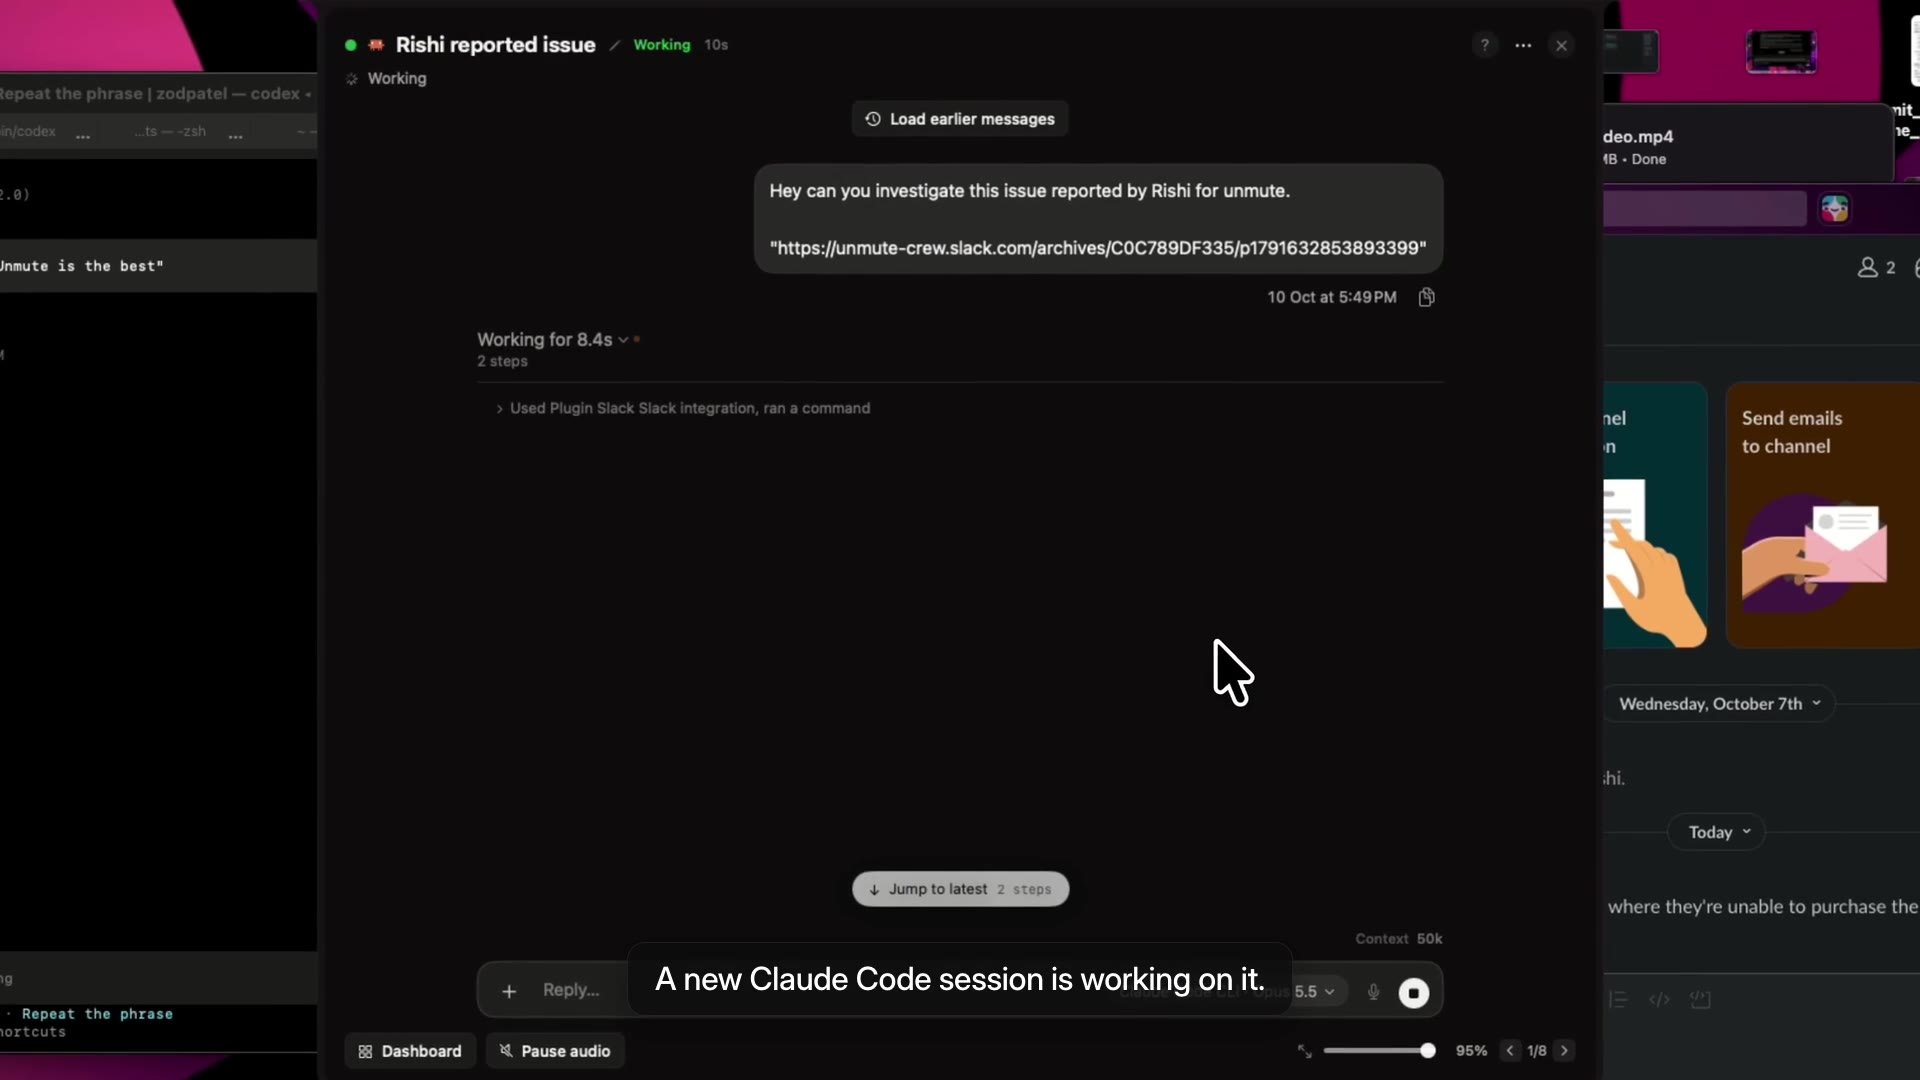
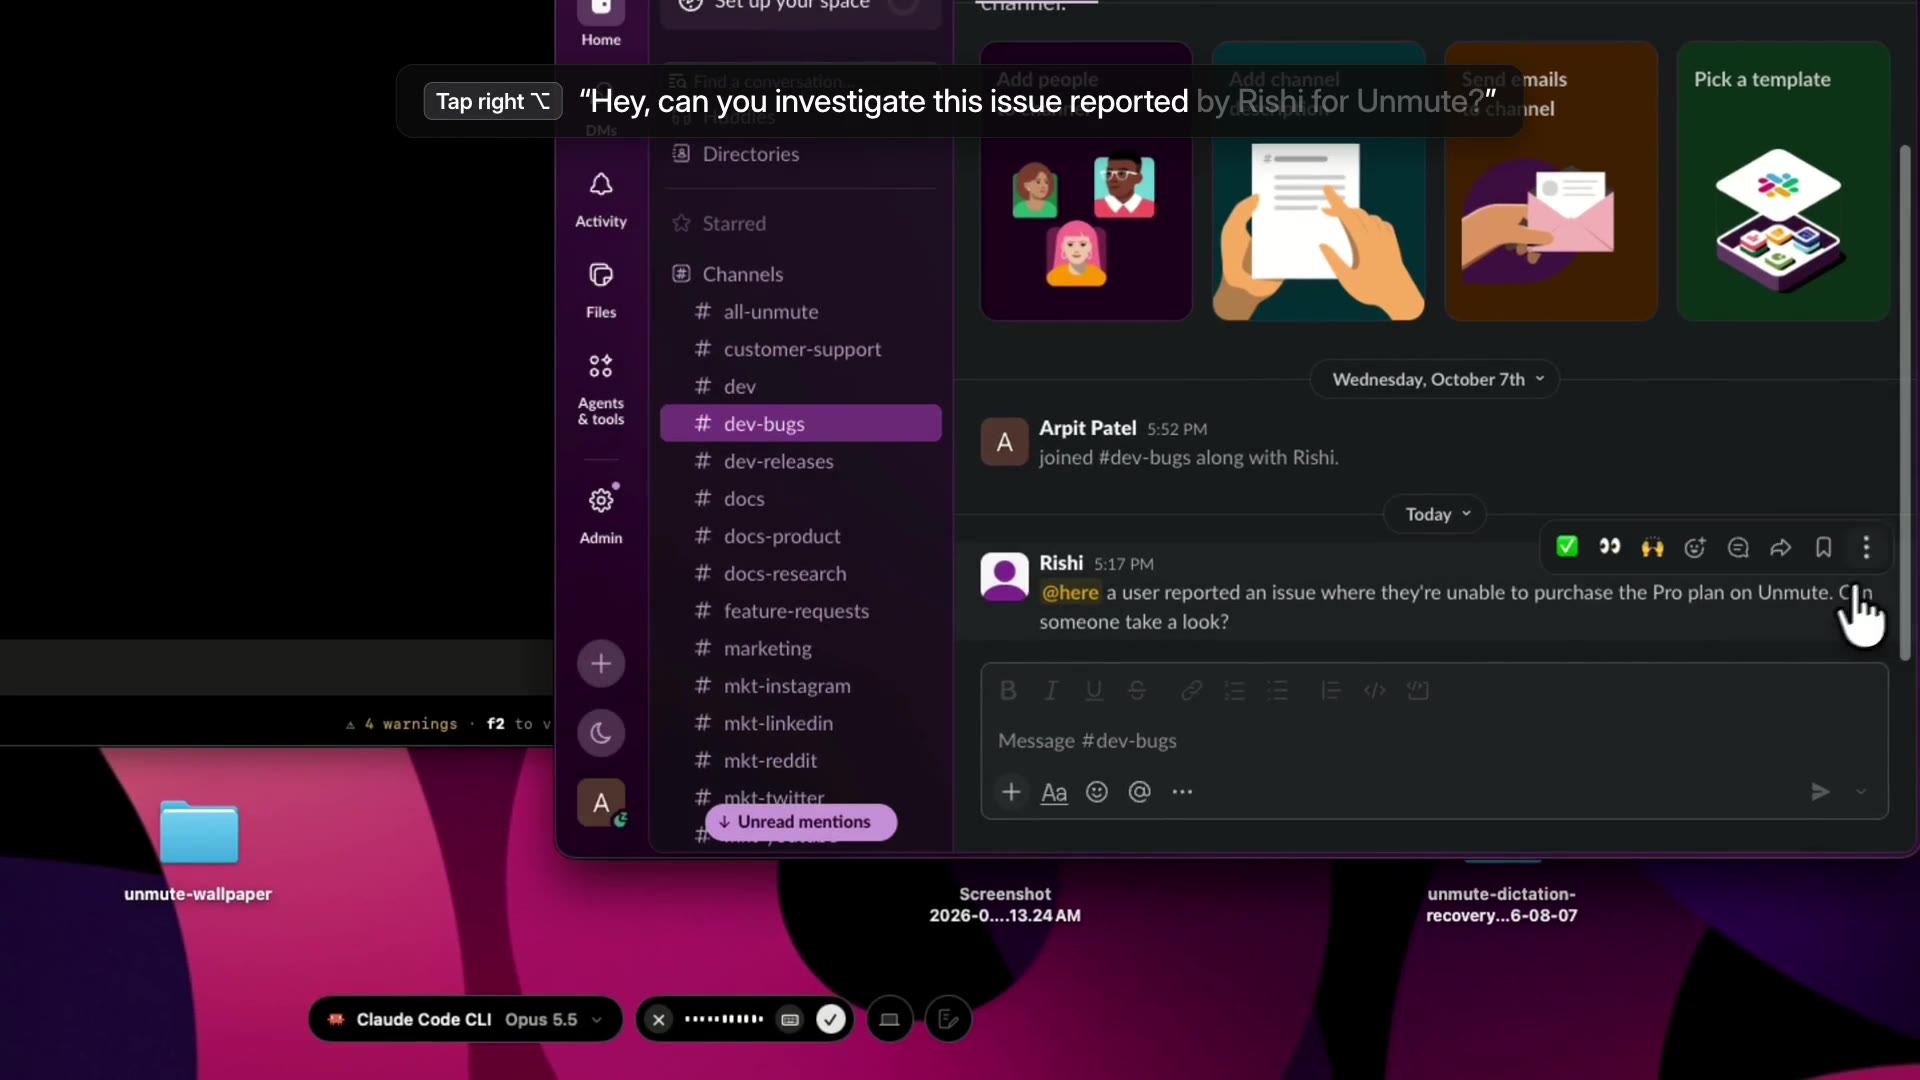
Landing: make the demos play on phones
Serve MP4 (H.264) only: iPhones could pick the WebM source and show black.
Replace the CSS mask on the video frame (Safari can draw masked video black)
with an overlay fade, add a tap-to-play button when autoplay is refused
(Low Power Mode, data saver), and refresh the hero poster.

diff --git a/index.html b/index.html
@@ -19,7 +19,7 @@
 <link rel="preload" href="assets/fonts/Inter.woff2" as="font" type="font/woff2" crossorigin />
 <link rel="preload" href="assets/fonts/Lora.woff2" as="font" type="font/woff2" crossorigin />
 <link rel="stylesheet" href="clear.css?v=20261011-3" />
-<link rel="stylesheet" href="draft.css?v=16" />
+<link rel="stylesheet" href="draft.css?v=17" />
 </head>
 <body>
 
@@ -45,9 +45,9 @@
 
   <figure class="film hero-film">
     <div class="frame">
-      <video data-cues="hero2" autoplay muted loop playsinline preload="auto" poster="assets/video/hero-poster.jpg?v=full2">
-        <source src="assets/video/hero.webm?v=full2" type="video/webm" />
-        <source src="assets/video/hero.mp4?v=full2" type="video/mp4" />
+      <video data-cues="hero2" autoplay muted loop playsinline preload="auto" poster="assets/video/hero-poster.jpg?v=m1">
+        
+        <source src="assets/video/hero.mp4?v=m1" type="video/mp4" />
       </video>
       <button type="button" class="sound" aria-pressed="false"><span class="on-off">Sound on</span></button>
     </div><div class="listen"><button type="button" class="listen-btn" aria-pressed="false"><span class="ico"></span><span class="lbl">Play with sound</span></button><span class="hint">Hear it narrated</span></div>
@@ -60,15 +60,15 @@
   <ol class="steps">
     <li class="step">
       <div class="text"><span class="n">1</span><h3>Say what you want done.</h3><p>Tap <kbd>right ⌥</kbd> and speak. Your words start a new Claude Code or Codex session, or go to one that’s already running.</p></div>
-      <figure class="film"><div class="frame"><video autoplay muted loop playsinline preload="none" poster="assets/video/step-say-poster.jpg?v=full2"><source src="assets/video/step-say.webm?v=full2" type="video/webm" /><source src="assets/video/step-say.mp4?v=full2" type="video/mp4" /></video><button type="button" class="sound" aria-pressed="false"><span class="on-off">Sound on</span></button></div><div class="listen"><button type="button" class="listen-btn" aria-pressed="false"><span class="ico"></span><span class="lbl">Play with sound</span></button><span class="hint">Hear it narrated</span></div></figure>
+      <figure class="film"><div class="frame"><video autoplay muted loop playsinline preload="none" poster="assets/video/step-say-poster.jpg?v=m1"><source src="assets/video/step-say.mp4?v=m1" type="video/mp4" /></video><button type="button" class="sound" aria-pressed="false"><span class="on-off">Sound on</span></button></div><div class="listen"><button type="button" class="listen-btn" aria-pressed="false"><span class="ico"></span><span class="lbl">Play with sound</span></button><span class="hint">Hear it narrated</span></div></figure>
     </li>
     <li class="step">
       <div class="text"><span class="n">2</span><h3>Keep working.</h3><p>The session runs in Claude Code or Codex. A small status at the top of your screen shows it’s working.</p></div>
-      <figure class="film"><div class="frame"><video autoplay muted loop playsinline preload="none" poster="assets/video/step-works-poster.jpg?v=full2"><source src="assets/video/step-works.webm?v=full2" type="video/webm" /><source src="assets/video/step-works.mp4?v=full2" type="video/mp4" /></video><button type="button" class="sound" aria-pressed="false"><span class="on-off">Sound on</span></button></div><div class="listen"><button type="button" class="listen-btn" aria-pressed="false"><span class="ico"></span><span class="lbl">Play with sound</span></button><span class="hint">Hear it narrated</span></div></figure>
+      <figure class="film"><div class="frame"><video autoplay muted loop playsinline preload="none" poster="assets/video/step-works-poster.jpg?v=m1"><source src="assets/video/step-works.mp4?v=m1" type="video/mp4" /></video><button type="button" class="sound" aria-pressed="false"><span class="on-off">Sound on</span></button></div><div class="listen"><button type="button" class="listen-btn" aria-pressed="false"><span class="ico"></span><span class="lbl">Play with sound</span></button><span class="hint">Hear it narrated</span></div></figure>
     </li>
     <li class="step">
       <div class="text"><span class="n">3</span><h3>Answer when it asks.</h3><p>When the session finishes or needs a decision, its chat opens at the top of your screen. Read it and reply by voice, without going anywhere.</p></div>
-      <figure class="film"><div class="frame"><video autoplay muted loop playsinline preload="none" poster="assets/video/step-answer-poster.jpg?v=full2"><source src="assets/video/step-answer.webm?v=full2" type="video/webm" /><source src="assets/video/step-answer.mp4?v=full2" type="video/mp4" /></video><button type="button" class="sound" aria-pressed="false"><span class="on-off">Sound on</span></button></div><div class="listen"><button type="button" class="listen-btn" aria-pressed="false"><span class="ico"></span><span class="lbl">Play with sound</span></button><span class="hint">Hear it narrated</span></div></figure>
+      <figure class="film"><div class="frame"><video autoplay muted loop playsinline preload="none" poster="assets/video/step-answer-poster.jpg?v=m1"><source src="assets/video/step-answer.mp4?v=m1" type="video/mp4" /></video><button type="button" class="sound" aria-pressed="false"><span class="on-off">Sound on</span></button></div><div class="listen"><button type="button" class="listen-btn" aria-pressed="false"><span class="ico"></span><span class="lbl">Play with sound</span></button><span class="hint">Hear it narrated</span></div></figure>
     </li>
   </ol>
 </section>
@@ -79,7 +79,7 @@
     <h2>Not just for code.</h2>
     <p>Anything you’d ask Claude Code or Codex: research a competitor, plan a launch, follow up on a thread.</p>
   </div>
-  <figure class="film"><div class="frame"><video autoplay muted loop playsinline preload="none" poster="assets/video/step-research-poster.jpg?v=full2"><source src="assets/video/step-research.webm?v=full2" type="video/webm" /><source src="assets/video/step-research.mp4?v=full2" type="video/mp4" /></video><button type="button" class="sound" aria-pressed="false"><span class="on-off">Sound on</span></button></div><div class="listen"><button type="button" class="listen-btn" aria-pressed="false"><span class="ico"></span><span class="lbl">Play with sound</span></button><span class="hint">Hear it narrated</span></div></figure>
+  <figure class="film"><div class="frame"><video autoplay muted loop playsinline preload="none" poster="assets/video/step-research-poster.jpg?v=m1"><source src="assets/video/step-research.mp4?v=m1" type="video/mp4" /></video><button type="button" class="sound" aria-pressed="false"><span class="on-off">Sound on</span></button></div><div class="listen"><button type="button" class="listen-btn" aria-pressed="false"><span class="ico"></span><span class="lbl">Play with sound</span></button><span class="hint">Hear it narrated</span></div></figure>
 </section>
 
 
@@ -185,6 +185,6 @@ window.EXTRA_CUES = {
 }
 </script>
 <script src="clear.js?v=20261011-4" defer></script>
-<script src="draft.js?v=3" defer></script>
+<script src="draft.js?v=4" defer></script>
 </body>
 </html>

diff --git a/draft.js b/draft.js
@@ -8,6 +8,18 @@
 // says "Click anywhere for sound"; the first interaction turns it on.
 ;(() => {
   if (matchMedia('(prefers-reduced-motion: reduce)').matches) return
+  // AUTOPLAY CAN BE REFUSED (iPhone Low Power Mode, Android data saver). Then
+  // the poster shows with a play button, and a tap starts that demo.
+  for (const v of document.querySelectorAll('.film video')) {
+    v.setAttribute('playsinline', ''); v.setAttribute('webkit-playsinline', ''); v.muted = true
+    const fig = v.closest('.film'), frame = v.closest('.frame')
+    const tap = document.createElement('button'); tap.type = 'button'; tap.className = 'tap'; tap.setAttribute('aria-label', 'Play demo'); tap.innerHTML = '<span></span>'
+    frame.append(tap)
+    const realPlay = v.play.bind(v)
+    v.play = () => { const r = realPlay(); if (r && r.catch) r.then(() => fig.classList.remove('blocked'), (e) => { if (e && e.name === 'NotAllowedError' && v.muted) fig.classList.add('blocked') }); return r }
+    tap.addEventListener('click', () => { fig.classList.remove('blocked'); realPlay().catch(() => {}) })
+    v.addEventListener('playing', () => fig.classList.remove('blocked'))
+  }
   const films = [...document.querySelectorAll('.film')].filter((f) => f.querySelector('.listen'))
   const items = films.map((fig) => ({ fig, v: fig.querySelector('video'), btn: fig.querySelector('.listen-btn'), hint: fig.querySelector('.listen .hint'), ratio: 0 }))
   let soundOn = true, unlocked = navigator.userActivation?.hasBeenActive || false, focused = null

diff --git a/draft.css b/draft.css
@@ -154,3 +154,13 @@
 }
 /* Phones and tablets: under each demo, only the step that's happening now. */
 @media(max-width:900px){.film .beats{grid-template-columns:1fr!important}.film .beats li:not(.on){display:none}}
+
+/* Safari can draw a video black inside an element with a CSS mask, so the
+   bottom fade is an overlay instead of a mask. */
+.film .frame{-webkit-mask-image:none;mask-image:none}
+.film .frame::after{content:"";position:absolute;z-index:2;left:-1px;right:-1px;bottom:-1px;height:7%;pointer-events:none;background:linear-gradient(rgba(255,255,255,0),#fff)}
+/* If a phone blocks autoplay (Low Power Mode, data saver), a tap starts it. */
+.film .frame .tap{position:absolute;z-index:4;inset:0;display:none;align-items:center;justify-content:center;border:0;background:rgba(0,0,0,.25);cursor:pointer}
+.film .frame .tap span{width:64px;height:64px;border-radius:50%;background:rgba(255,255,255,.92);box-shadow:0 8px 24px rgba(0,0,0,.35);position:relative}
+.film .frame .tap span::after{content:"";position:absolute;left:26px;top:20px;border-style:solid;border-width:12px 0 12px 19px;border-color:transparent transparent transparent #0a0a0a}
+.film.blocked .frame .tap{display:flex}
